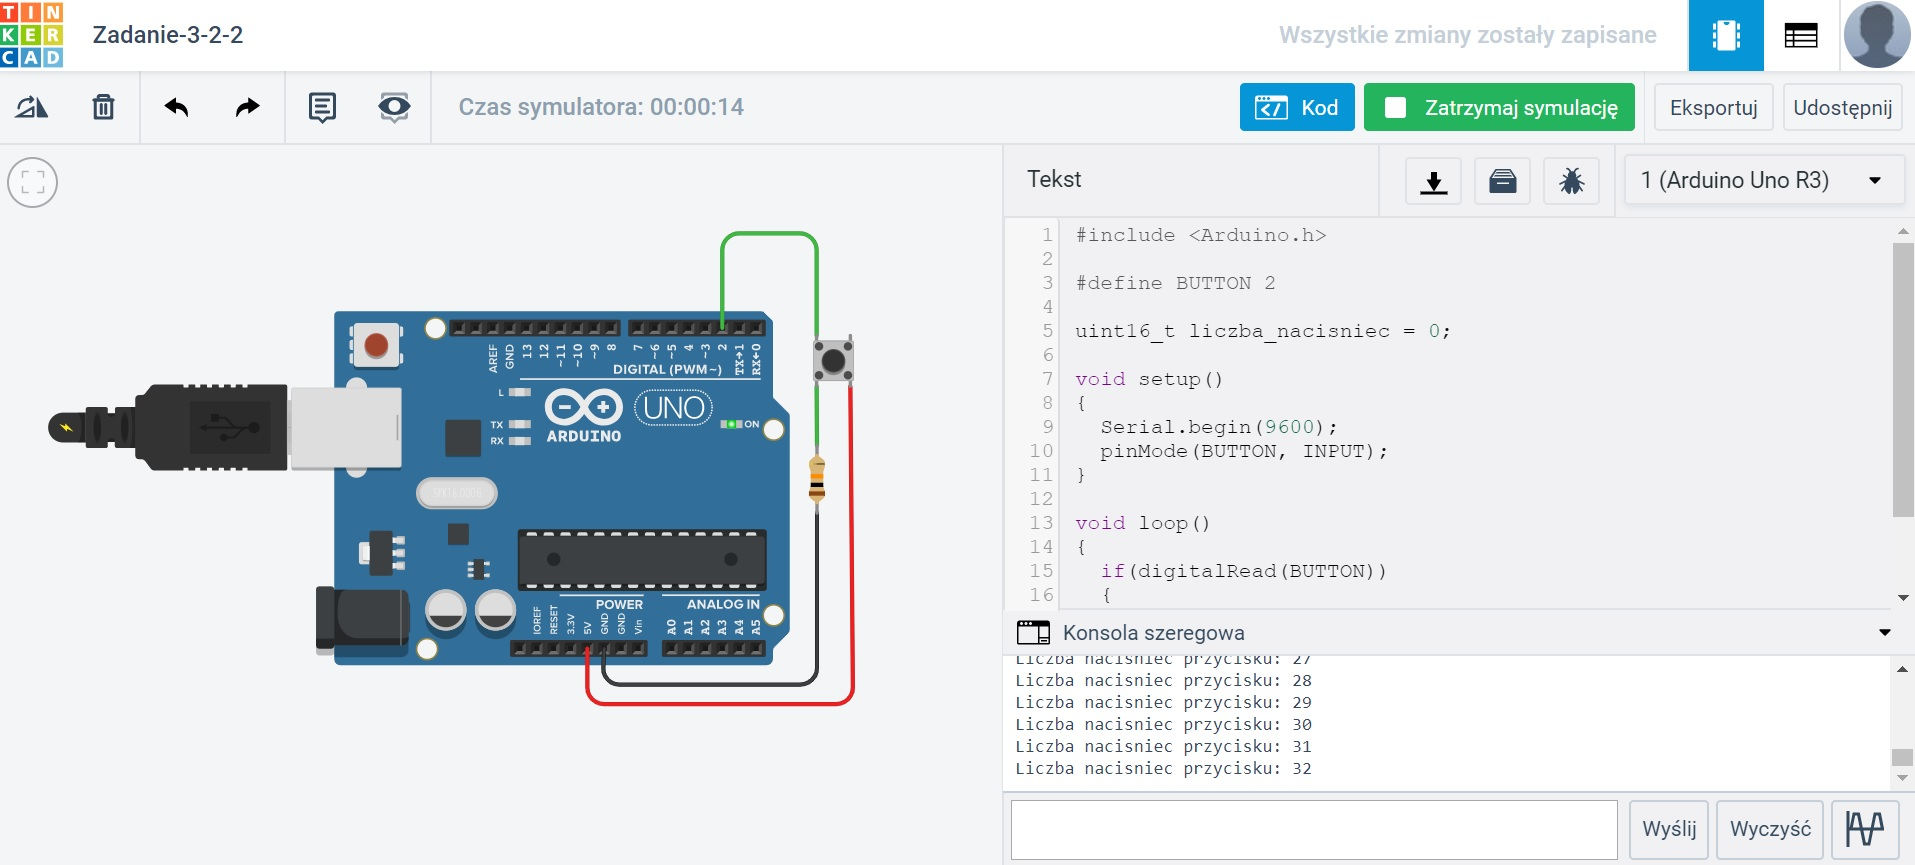
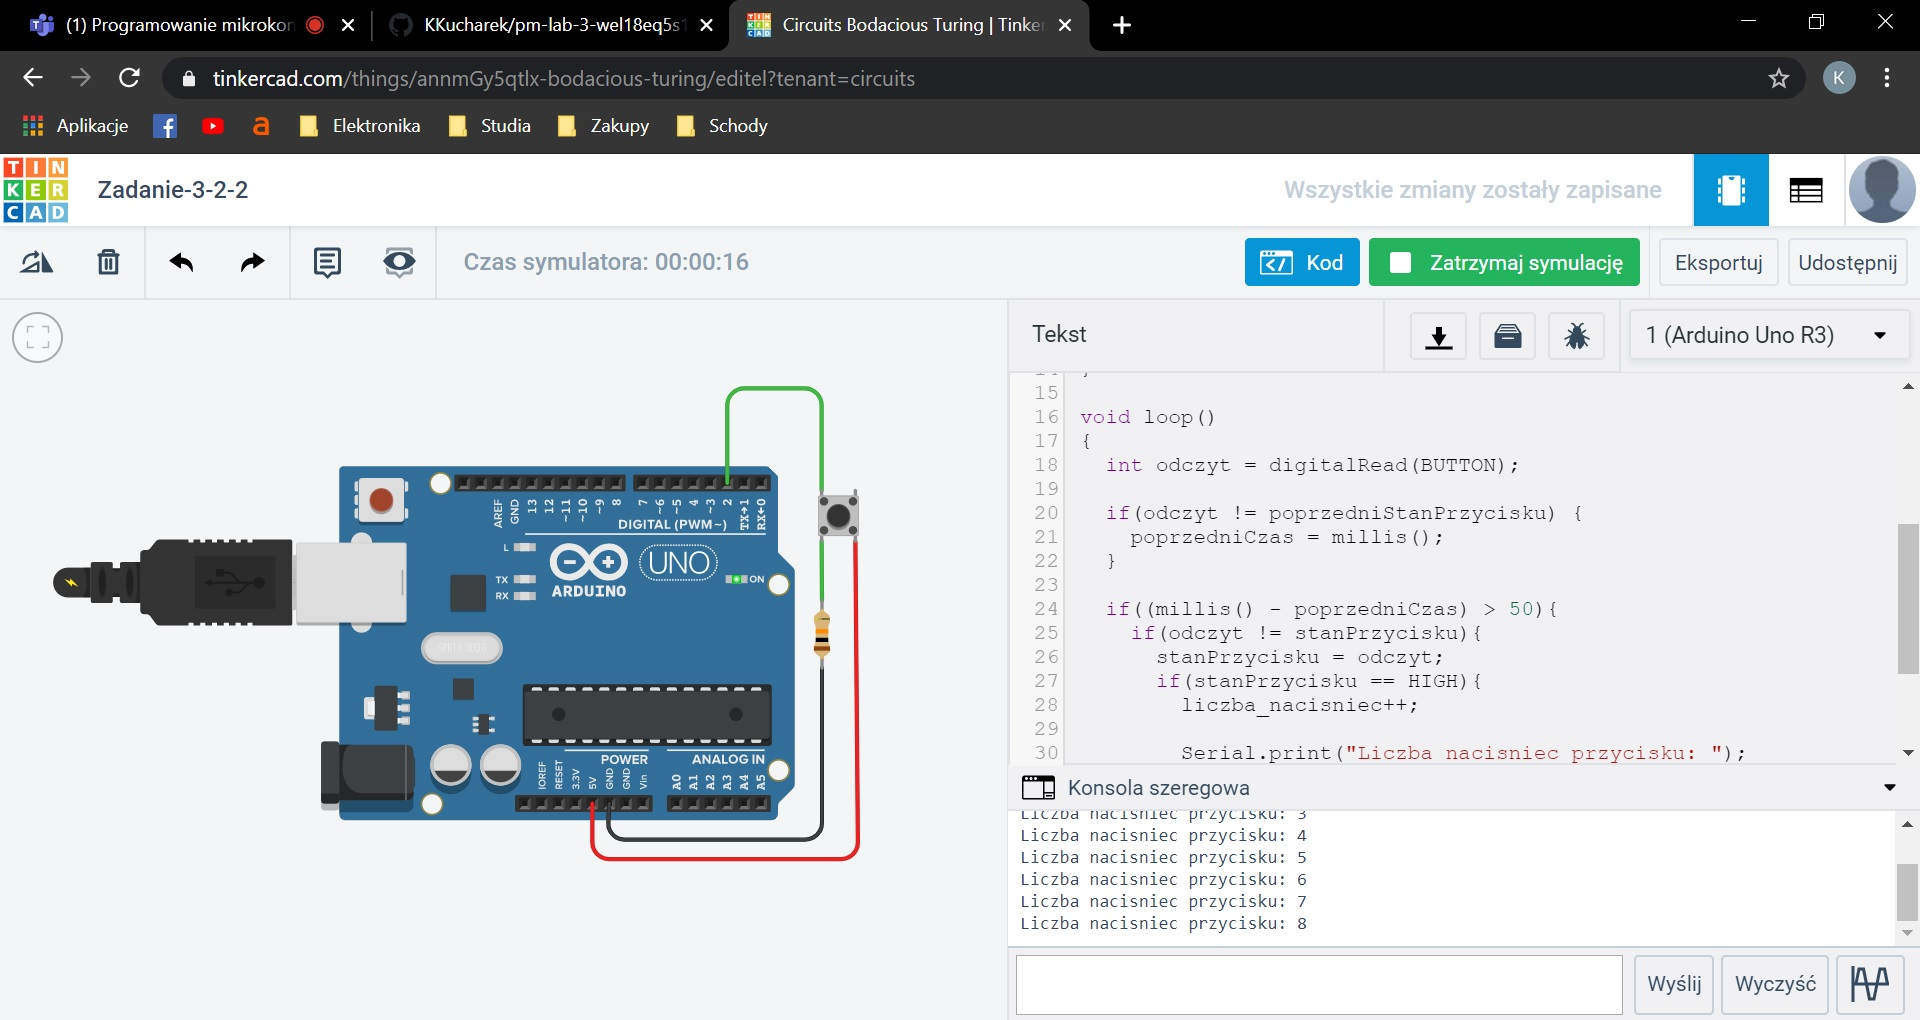
Wykonano zadanie 3.2.2 b) – zliczanie wciśnięć UART”.

diff --git a/Zadanie-3-2/src/main.cpp b/Zadanie-3-2/src/main.cpp
@@ -2,7 +2,10 @@
 
 #define BUTTON 2
 
-uint16_t liczba_nacisniec = 0;
+int stanPrzycisku;
+int poprzedniStanPrzycisku = LOW;
+unsigned long poprzedniCzas = 0;
+unsigned int liczba_nacisniec = 0;
 
 void setup()
 {
@@ -12,9 +15,23 @@ void setup()
 
 void loop()
 {
-  if(digitalRead(BUTTON))
-  {
-    Serial.print("Liczba nacisniec przycisku: ");
-    Serial.println(++liczba_nacisniec);
+  int odczyt = digitalRead(BUTTON);
+
+  if(odczyt != poprzedniStanPrzycisku) {
+    poprzedniCzas = millis();
   }
+
+  if((millis() - poprzedniCzas) > 50){
+    if(odczyt != stanPrzycisku){
+      stanPrzycisku = odczyt;
+      if(stanPrzycisku == HIGH){
+        liczba_nacisniec++;
+
+        Serial.print("Liczba nacisniec przycisku: ");
+        Serial.println(liczba_nacisniec);
+      }
+    }
+  }
+
+  poprzedniStanPrzycisku = odczyt;
 }

diff --git a/README.md b/README.md
@@ -13,6 +13,10 @@ Numer albumu: 69102
 Grupa studencka: WELE18Q5S1
 
 # Odpowiedzi do pytań z instrukcji
-Zadanie 3.2.2.
+Zadanie 3.2.2a
 Odpowiedź:
 Po kliknięciu przycisku raz, program zlicza jakby kliknęło się przycisk 3 albo nawet 4 razy, przy przytrzymaniu przycisku 3 sekundy kliknięcia są zliczane cały czas gdy przycisk jest wciśnięty. Taki wynik jest spowodowany tym, że program rozpoznaje stan wysoki przycisku cały czas, gdy jest on naciśnięty. Nie uwzględnia jaki czas jest naciśnięty, ani nie uwzględnia stanu niskiego przycisku.
+
+Zadanie 3.2.2b
+Odpowiedź:
+Gdy liczba naciśnięć przekroczy określoną ilość, można dodać funkcję, która będzie kasowała ilość naciśnięć i dodać zmienną, która będzie zliczała ilość osiągniętych określonych ilości naciśnięć(np. gdy będzie 100 naciśnięć to liczba_nacisniec się zeruje, a na dodatkowej zmiennej będą zliczane pełne setki).
